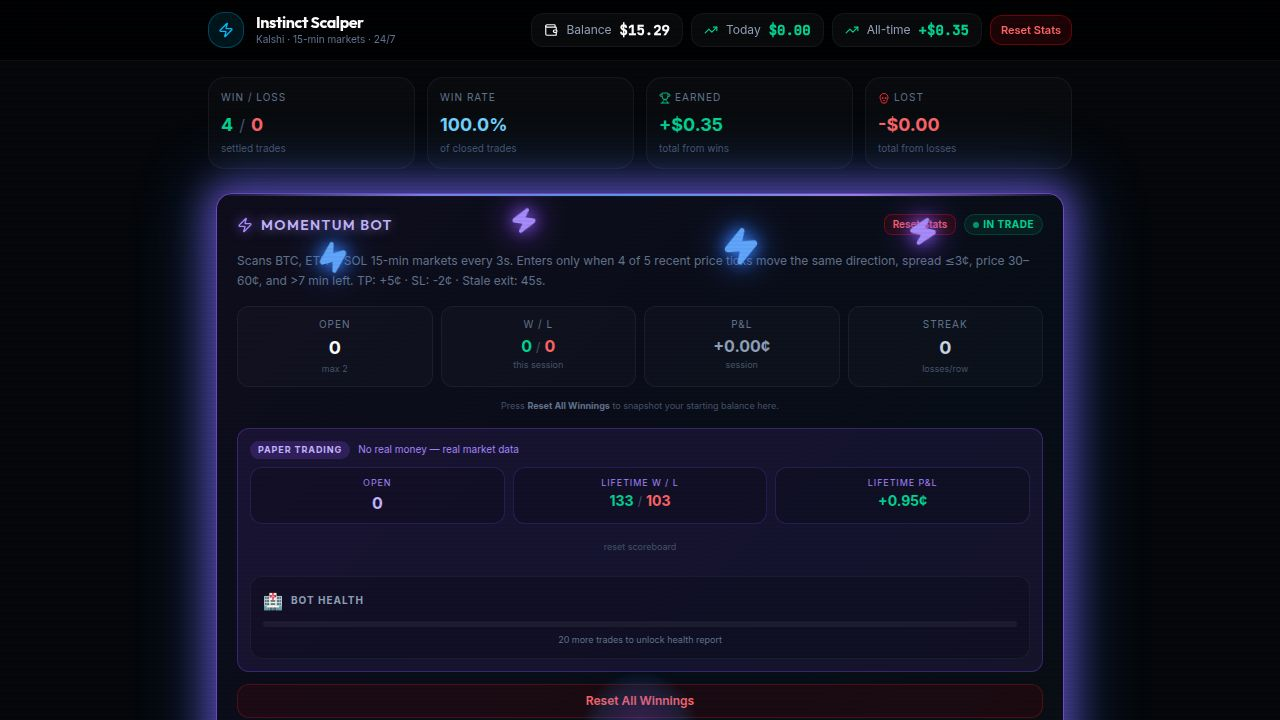
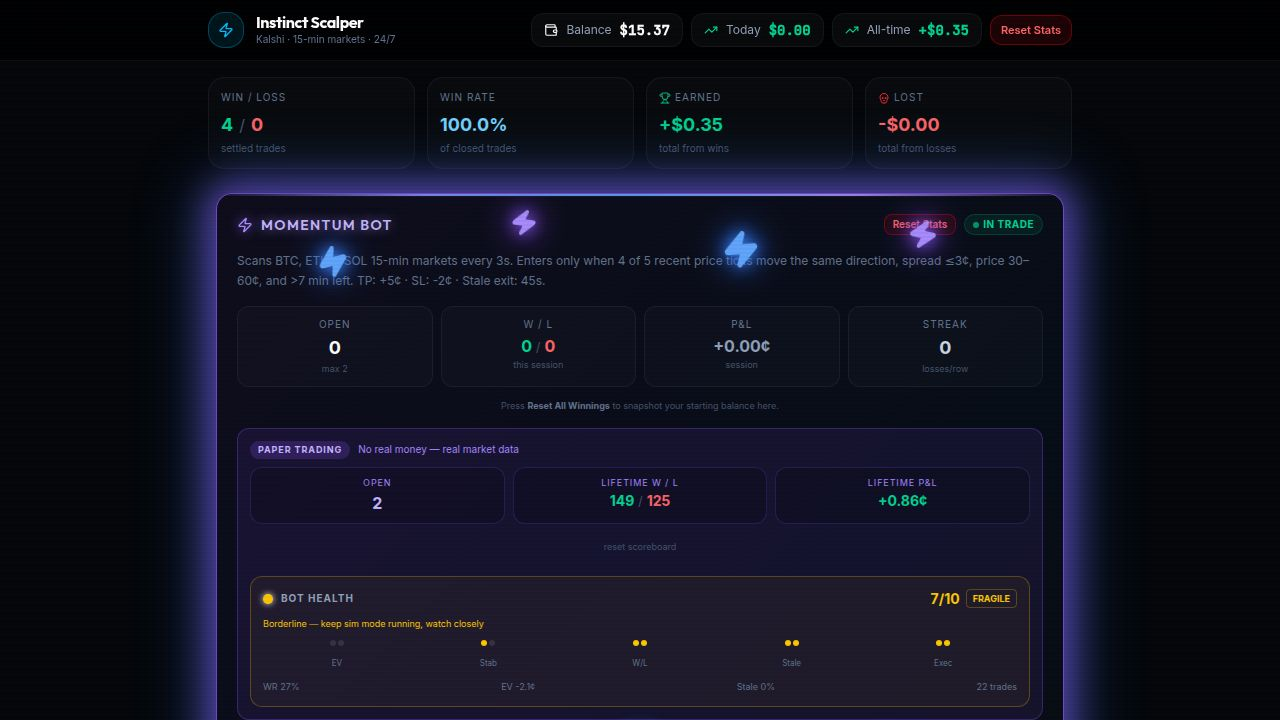
Add a way to force stop the bot and show saving status
Introduce a "Force Stop Bot" button and a saving status indicator to the momentum bot UI.

Replit-Commit-Author: Agent
Replit-Commit-Session-Id: a382cffc-0679-436f-8220-34f800ab4376
Replit-Commit-Checkpoint-Type: full_checkpoint
Replit-Commit-Event-Id: bd65ce45-f273-49bb-8fdf-f9502d808566
Replit-Commit-Screenshot-Url: https://storage.googleapis.com/screenshot-production-us-central1/df402503-3cd4-4ca7-b2c3-1274ece60827/a382cffc-0679-436f-8220-34f800ab4376/pXLJeXh
Replit-Helium-Checkpoint-Created: true

diff --git a/artifacts/kalshi-bot/src/components/momentum-bot.tsx b/artifacts/kalshi-bot/src/components/momentum-bot.tsx
@@ -881,9 +881,11 @@ export function MomentumBot() {
                 <p className="text-[10px] mt-0.5 text-slate-600">
                   {isReconnecting
                     ? "⟳ Reconnecting to server..."
-                    : enabled
-                      ? isSimMode ? "🎮 Paper scanning — no real money" : "Scanning every 15s for clean setups"
-                      : "Tap to start momentum trading"}
+                    : setAuto.isPending
+                      ? "⟳ Saving..."
+                      : enabled
+                        ? isSimMode ? "🎮 Paper scanning — no real money" : "Scanning every 15s for clean setups"
+                        : "Tap to start momentum trading"}
                 </p>
               </div>
               {isReconnecting ? (
@@ -911,6 +913,17 @@ export function MomentumBot() {
               <div className="mt-2 rounded-lg bg-red-500/10 border border-red-500/20 px-3 py-2">
                 <p className="text-[10px] text-red-400 leading-relaxed">⚠ {toggleError}</p>
               </div>
+            )}
+            {enabled && !setAuto.isPending && (
+              <button
+                onClick={() => {
+                  setToggleError(null);
+                  setAuto.mutate({ data: { enabled: false } });
+                }}
+                className="mt-2 w-full text-[10px] text-red-400/70 hover:text-red-400 border border-red-500/20 hover:border-red-500/40 rounded-lg py-1.5 transition-colors"
+              >
+                Force Stop Bot
+              </button>
             )}
             {enabled && !isPaused && (
               <div className={`flex items-center gap-1.5 mt-2 text-[10px] ${simulatorMode ? "text-violet-400/70" : "text-sky-400/70"}`}>
